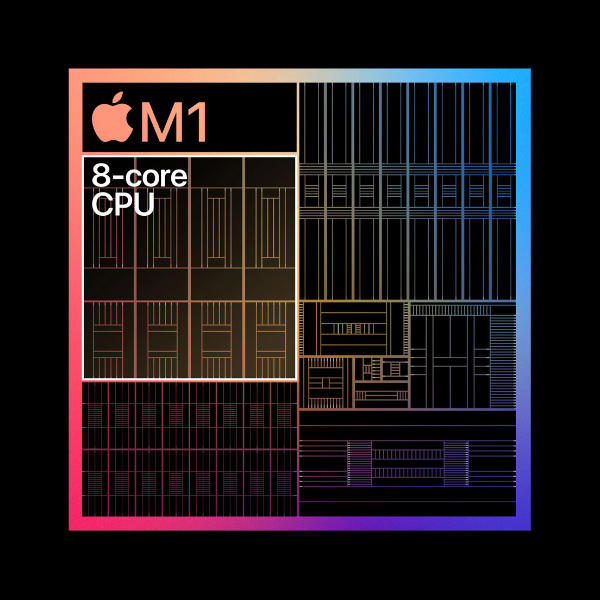
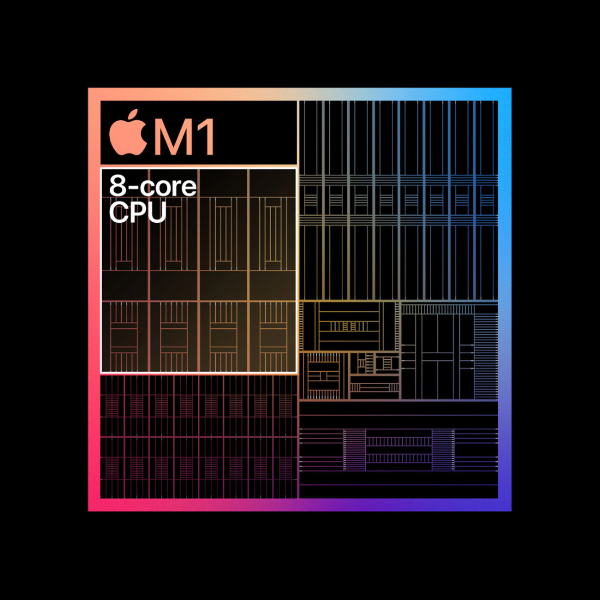
remove unused asset

diff --git a/index.html b/index.html
@@ -137,7 +137,7 @@
 				<figure class="apple-m1 two-img">
 					<div class="img-container">
 						<img src="images/blog/thumbnails/apple-m1.png" alt="Apple M1" />
-						<img src="images/blog/thumbnails/apple-m1-overlay2.png" alt="" />
+						<img src="images/blog/thumbnails/apple-m1-overlay.png" alt="" />
 					</div>
 					<h4>What the heck is 'ARM'?</h4>
 				</figure>
